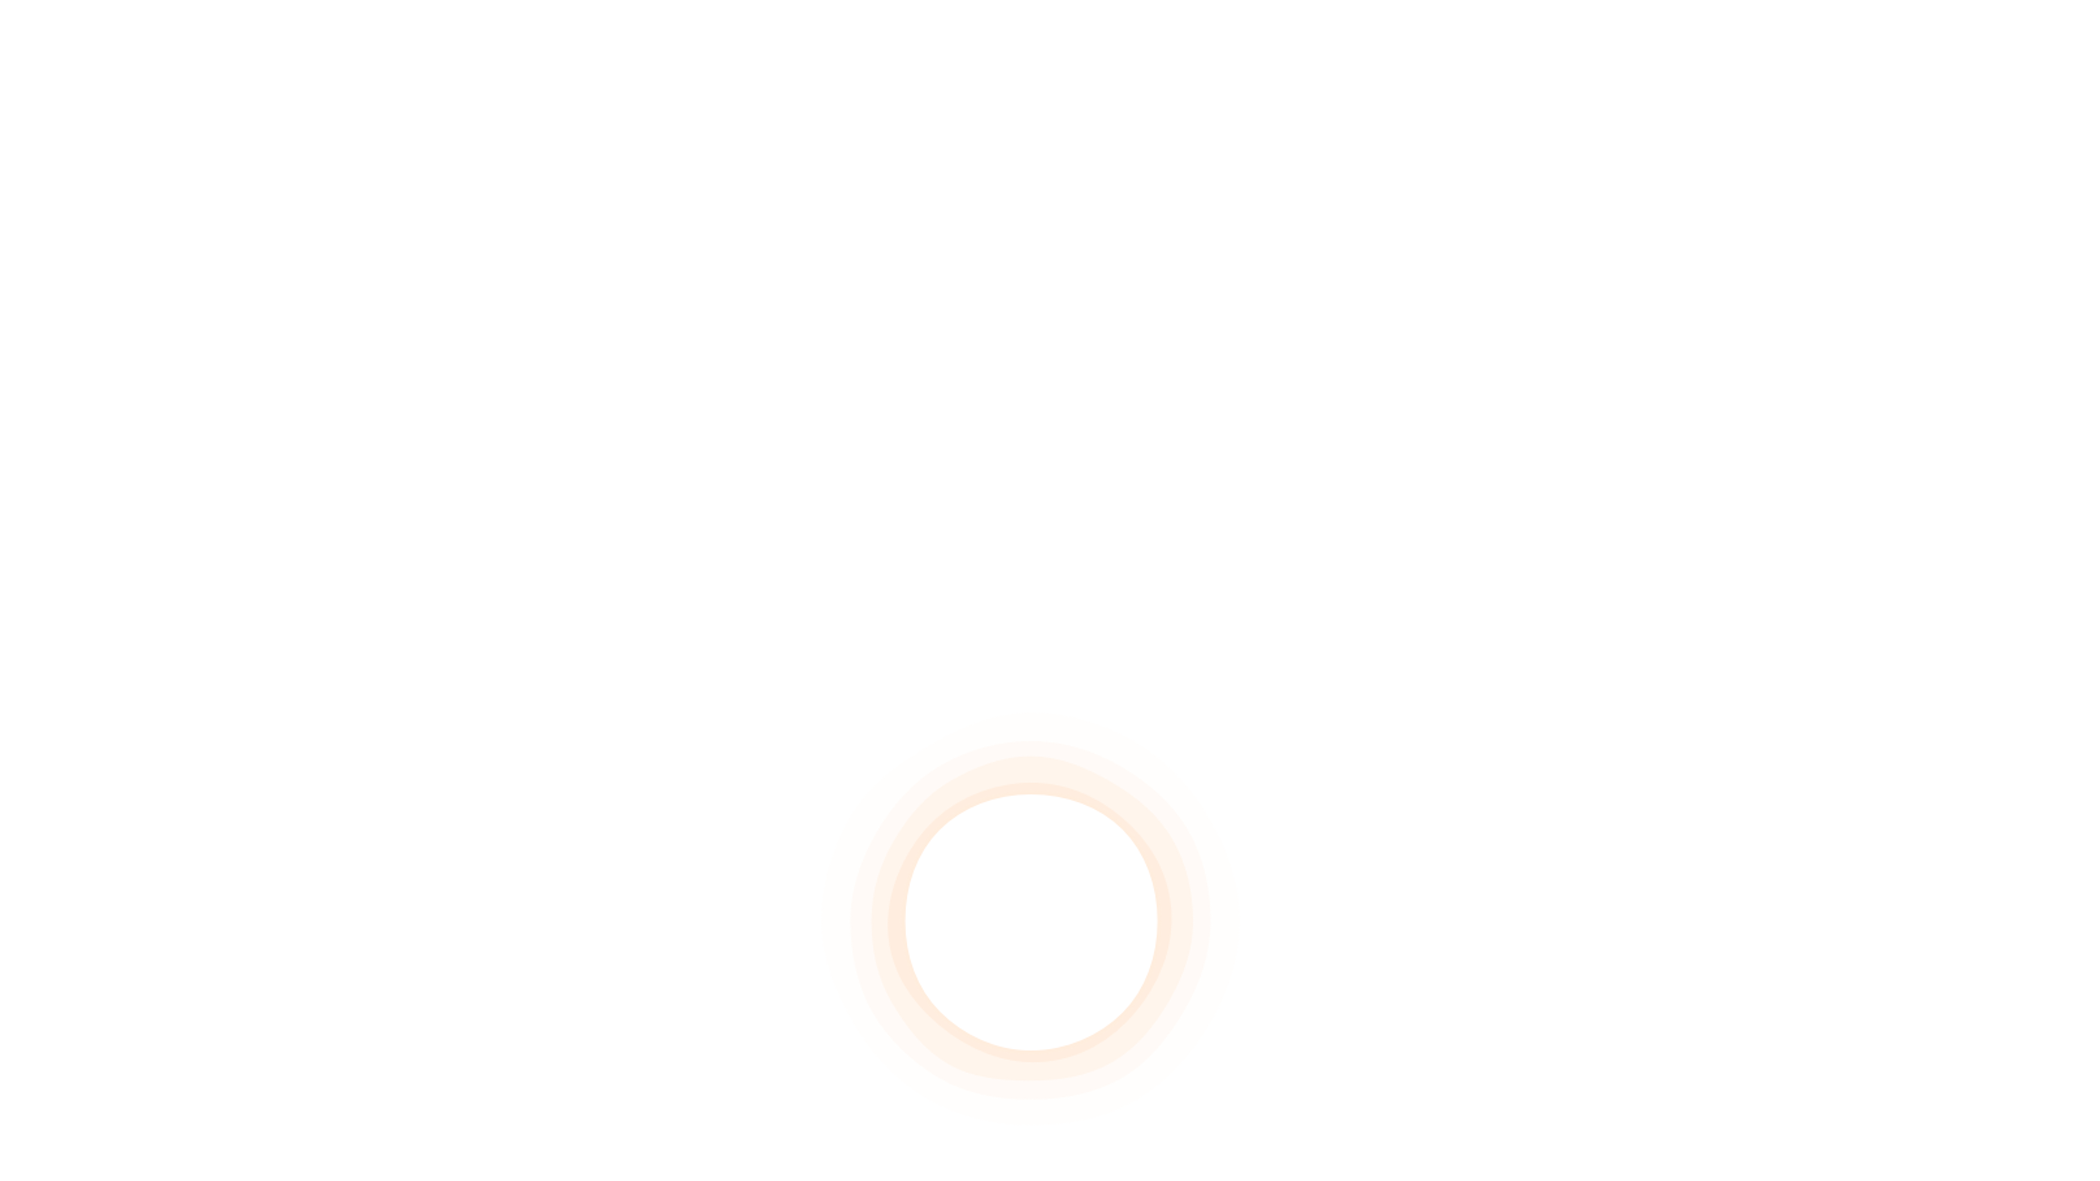
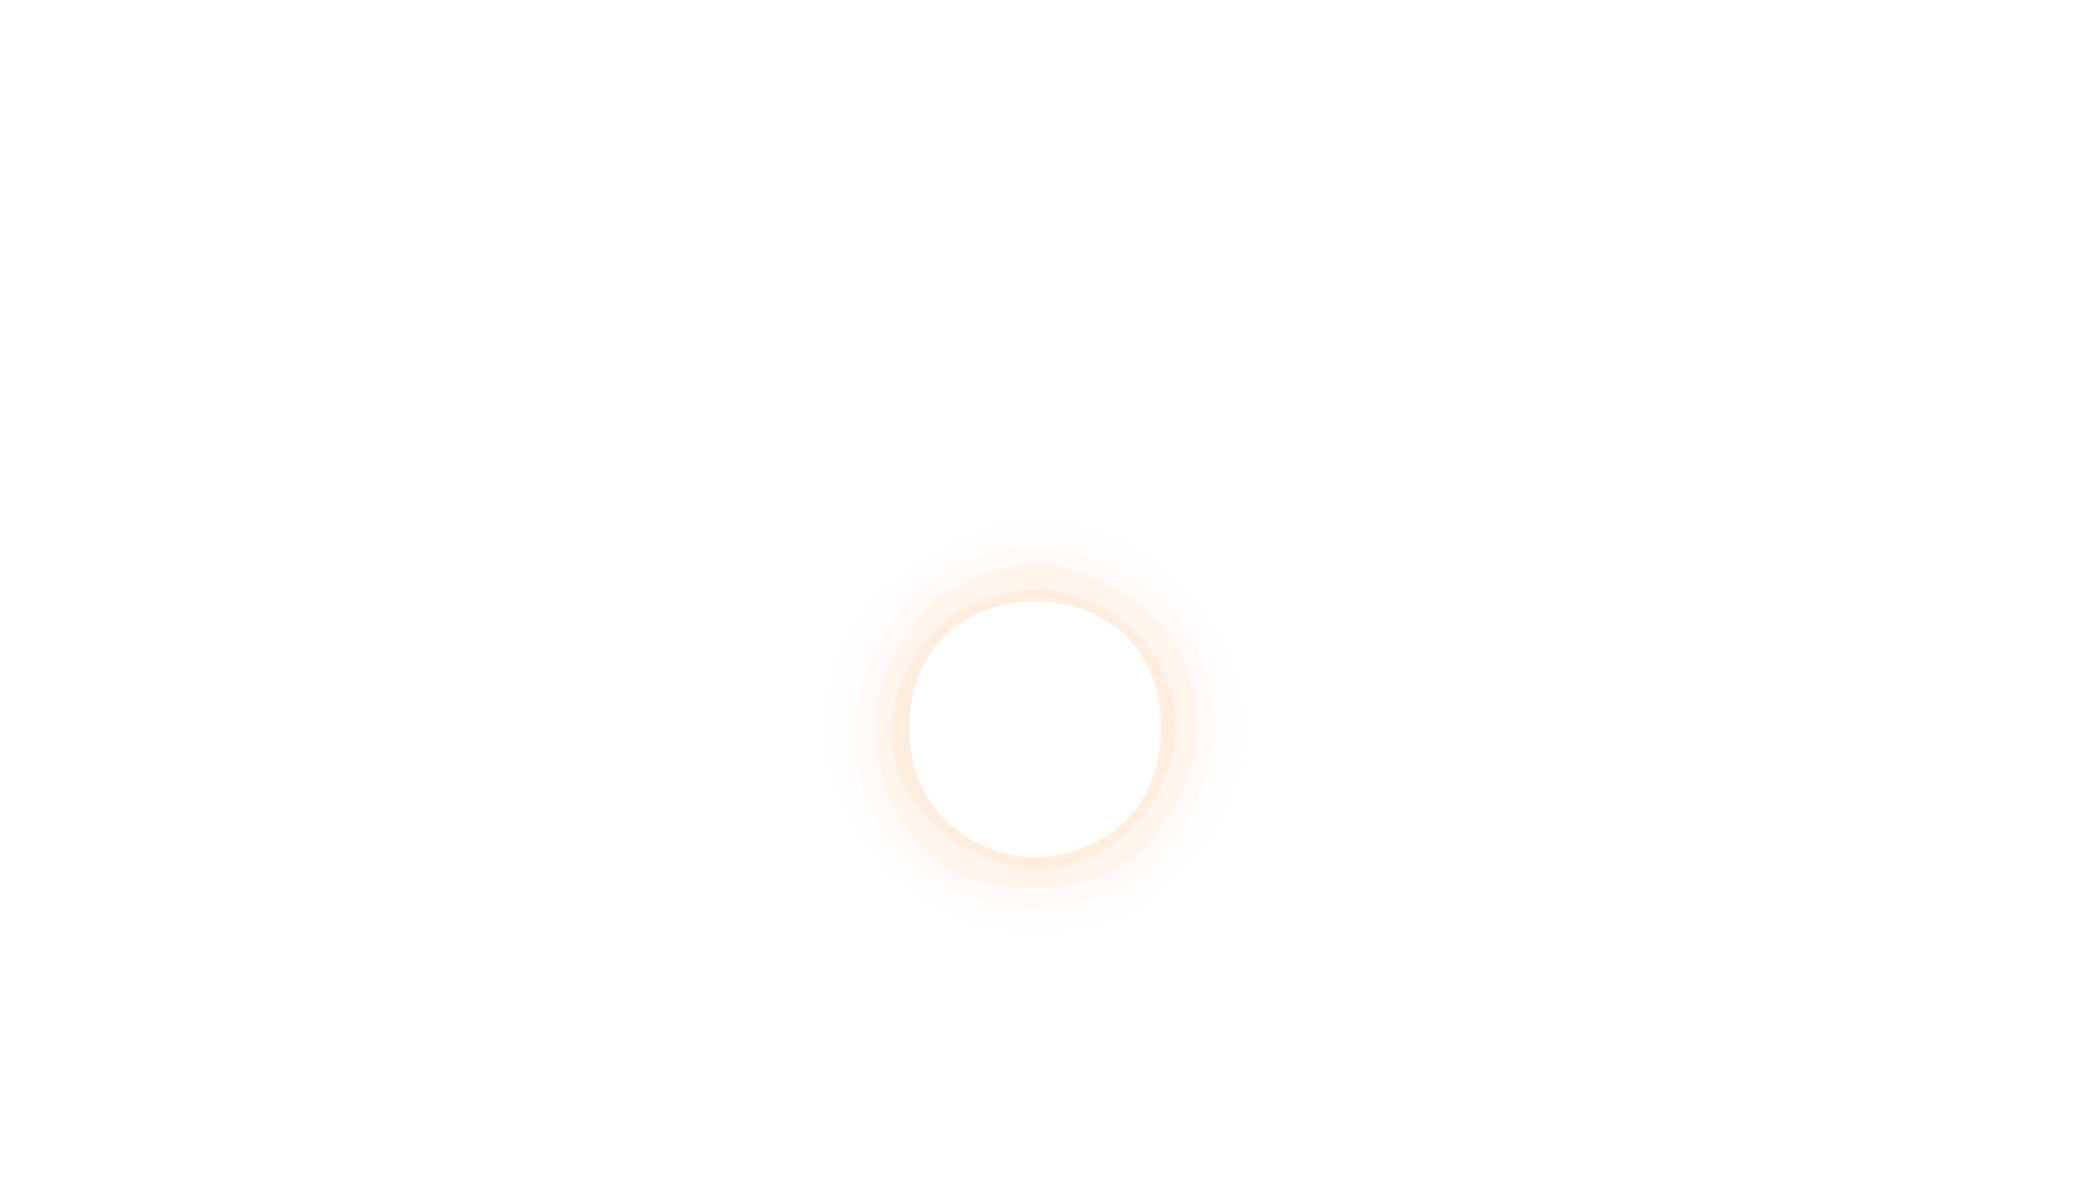
modal re-design

diff --git a/media/css/firefox/firstrun/new-firstrun.less b/media/css/firefox/firstrun/new-firstrun.less
@@ -32,6 +32,10 @@ img {
     opacity: 0;
 }
 
+#sunrise {
+    transform: translate3d(0, 30%, 0);
+}
+
 #scene-blur {
     z-index: 4;
 }
@@ -41,6 +45,14 @@ img {
     position: relative;
 }
 
+#fxa-iframe-config {
+    background: #fff;
+    border-radius: 5px;
+    padding: 25px 15px 20px 15px;
+    display: inline-block;
+    margin-left: 65px;
+}
+
 .fxaccounts-container {
     margin: auto;
     position: absolute;
@@ -48,19 +60,19 @@ img {
     left: 0;
     bottom: 0;
     right: 0;
-    width: 600px;
-    height: 450px;
-    background: white;
+    width: 695px;
+    height: 395px;
     z-index: 10;
     opacity: 0;
-    border-radius: 5px;
-    padding: 5px 30px;
+    color: #fff;
 }
 
 #left-divider {
-    width: 45%;
-    height: 100%;
-    float: left;
+  width: 300px;
+  height: 60%;
+  float: left;
+  margin: 79px 0;
+  position: relative;
 
     img {
         position: relative;
@@ -70,34 +82,65 @@ img {
 
     p {
         margin: 0;
+        position: absolute;
         line-height: 150%;
-        font-size: 1.2em;
+        font-size: 1.1em;
     }
 
     a {
+        position: absolute;
+        bottom:0;
+        color: #edb200;
         font-size: .9em;
+
+        &:hover {
+            color: #d99100;
+        }
     }
 }
 
 #title {
-    font-size: 2em;
+    font-weight: bold;
+    font-size: 1.8em;
     margin: 20px 0;
 }
 
 #scene[data-sunrise=true] {
 
+    #firefox-logo {
+      background-image: url('/media/img/firefox/template/release-logo-high-res.png');
+      height: 80px;
+      width: 80px;
+      background-position: center;
+      background-repeat: no-repeat;
+      background-size: contain;
+      position: absolute;
+      top: -55px;
+      right: 125px;
+    }
+
     button {
-        position: absolute;
-        width: 120px;
-        height: 30px;
-        bottom: 20px;
-        right: 145px;
+        margin: 10px auto;
+        display: block;
         cursor: pointer;
+        background-color: #0996f8;
+        -moz-appearance: none;
+        color: #fff;
+        border: 1px solid #0670cc;
+        border-radius: 3px;
+        box-shadow: 0 0 0 0 transparent;
+        height: 24px;
+        padding: 3px 10px;
+
+        &:hover {
+          background-color: #0670cc;
+          border-color: #005bab;
+        }
     }
 
     #sunrise {
-        transition: transform 1.5s ease-in-out .5s;
-        transform: translate3d(0, -20%, 0);
+        transition: transform 1.5s cubic-bezier(.41,.61,.54,.96) 0.5s;
+        transform: translate3d(0, 0, 0);
     }
 
     #mountains-trees, #foreground-fox, #sky {
@@ -112,7 +155,12 @@ img {
         display: none;
     }
 
-    #scene-blur, .fxaccounts-container {
+    #scene-blur {
+        transition: opacity .5s;
+        opacity: 1;
+    }
+
+   .fxaccounts-container {
         transition: opacity .3s;
         opacity: 1;
     }
@@ -120,8 +168,12 @@ img {
 
 #scene[data-sign-in=true] {
 
-    #scene-blur, .fxaccounts-container {
-        display: none;
+    .fxaccounts-container {
+       display: none;
+    }
+
+    #scene-blur {
+        opacity: 0;
     }
 
     #sunrise, #sky, #mountains-trees, #foreground-fox {
@@ -130,7 +182,7 @@ img {
     }
 
     #sunrise {
-        transform-origin: 50% 80%;
+        transform-origin: 50% 60%;
         transform: scale(16);
     }
 

diff --git a/bedrock/firefox/templates/firefox/firstrun/new-firstrun.html b/bedrock/firefox/templates/firefox/firstrun/new-firstrun.html
@@ -13,17 +13,15 @@
   <div>
     <div id="scene">
       <div class="fxaccounts-container">
-        <h1 id="title">{{_('Already Using Firefox?')}}</h1>
         <div id="left-divider">
+          <h1 id="title">{{_('Already using Firefox?')}}</h1>
           <p>{{_('Sign in to your account and we’ll sync the bookmarks, passwords and other great things you’ve saved to Firefox on other devices.')}}</p>
-          <div>
-            <img alt="" src="{{ static('img/firefox/firstrun-horizon/sample.png') }}">
-          </div>
           <a href="{{ url('firefox.sync') }}">{{_('Learn more about Firefox Accounts')}}</a>
         </div>
+      <div id="firefox-logo"></div>
       <div class="fxaccounts" id="fxa-iframe-config" data-host="{{ settings.FXA_IFRAME_SRC }}" data-mozillaonline-host="{{ settings.FXA_IFRAME_SRC_MOZILLAONLINE }}">
         <iframe id="fxa" scrolling="no" data-src="{{ settings.FXA_IFRAME_SRC }}signin?utm_campaign=fxa-embedded-form&amp;utm_medium=referral&amp;utm_source=firstrun&amp;utm_content=fx-{{ version }}&amp;entrypoint=firstrun&amp;service=sync&amp;context=iframe&amp;style=chromeless&amp;haltAfterSignIn=true"></iframe>
-        <button id="skip-button">{{_('Skip This Step')}}</button>
+        <button id="skip-button">{{_('Skip this step')}}</button>
       </div>
     </div>
 
@@ -34,7 +32,7 @@
       <img id="mountains-trees" alt="" src="{{ static('img/firefox/firstrun-horizon/day-scene/mountains-trees.png') }}">
       <img id="night-foreground-fox" alt="" src="{{ static('img/firefox/firstrun-horizon/night-scene/foreground-fox.png') }}">
       <img id="foreground-fox" alt="" src="{{ static('img/firefox/firstrun-horizon/day-scene/foreground-fox.png') }}">
-      <img id="scene-blur" alt="" src="{{ static('img/firefox/firstrun-horizon/scene-blur.png') }}">
+      <img id="scene-blur" alt="" src="{{ static('img/firefox/firstrun-horizon/scene-blur.jpg') }}">
     </div>
   </div>
 {% endblock %}
